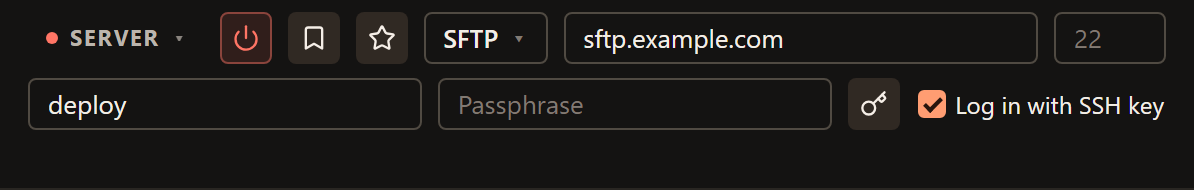
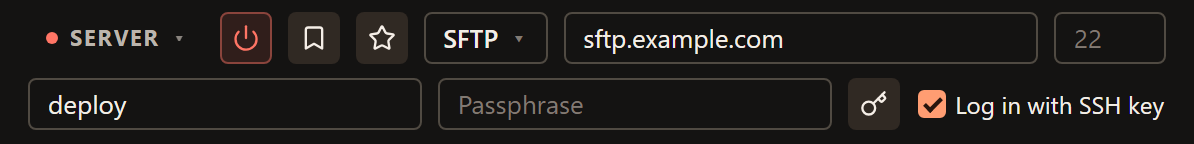
Round guide screenshots and trim connection panel dividers
Docs-Impact: none - illustration framing only; instructions unchanged

Changelog: none - refines the unreleased guide illustrations

Changed region(s): [[0.0, 0.1389, 0.9916, 0.9167], [0.1859, 0.0556, 0.9916, 0.1111], [0.031, 0.1389, 0.1549, 0.3333]]

diff --git a/site/guide.css b/site/guide.css
@@ -33,6 +33,7 @@
 .guide-callout { margin: 24px 0; }
 .guide-callout > :last-child { margin-bottom: 0; }
 .guide-content img { max-width: 100%; max-height: 480px; width: auto; height: auto; }
+.guide-content img, .guide-image-viewer img { border: 1px solid var(--line); border-radius: 10px; }
 .guide-content p:has(> a > img) { margin: 24px 0 8px; }
 .guide-content p:has(> a > img) + p { font-size: 15px; line-height: 1.6; color: var(--muted); }
 .guide-content a:has(> img) { cursor: zoom-in; }
